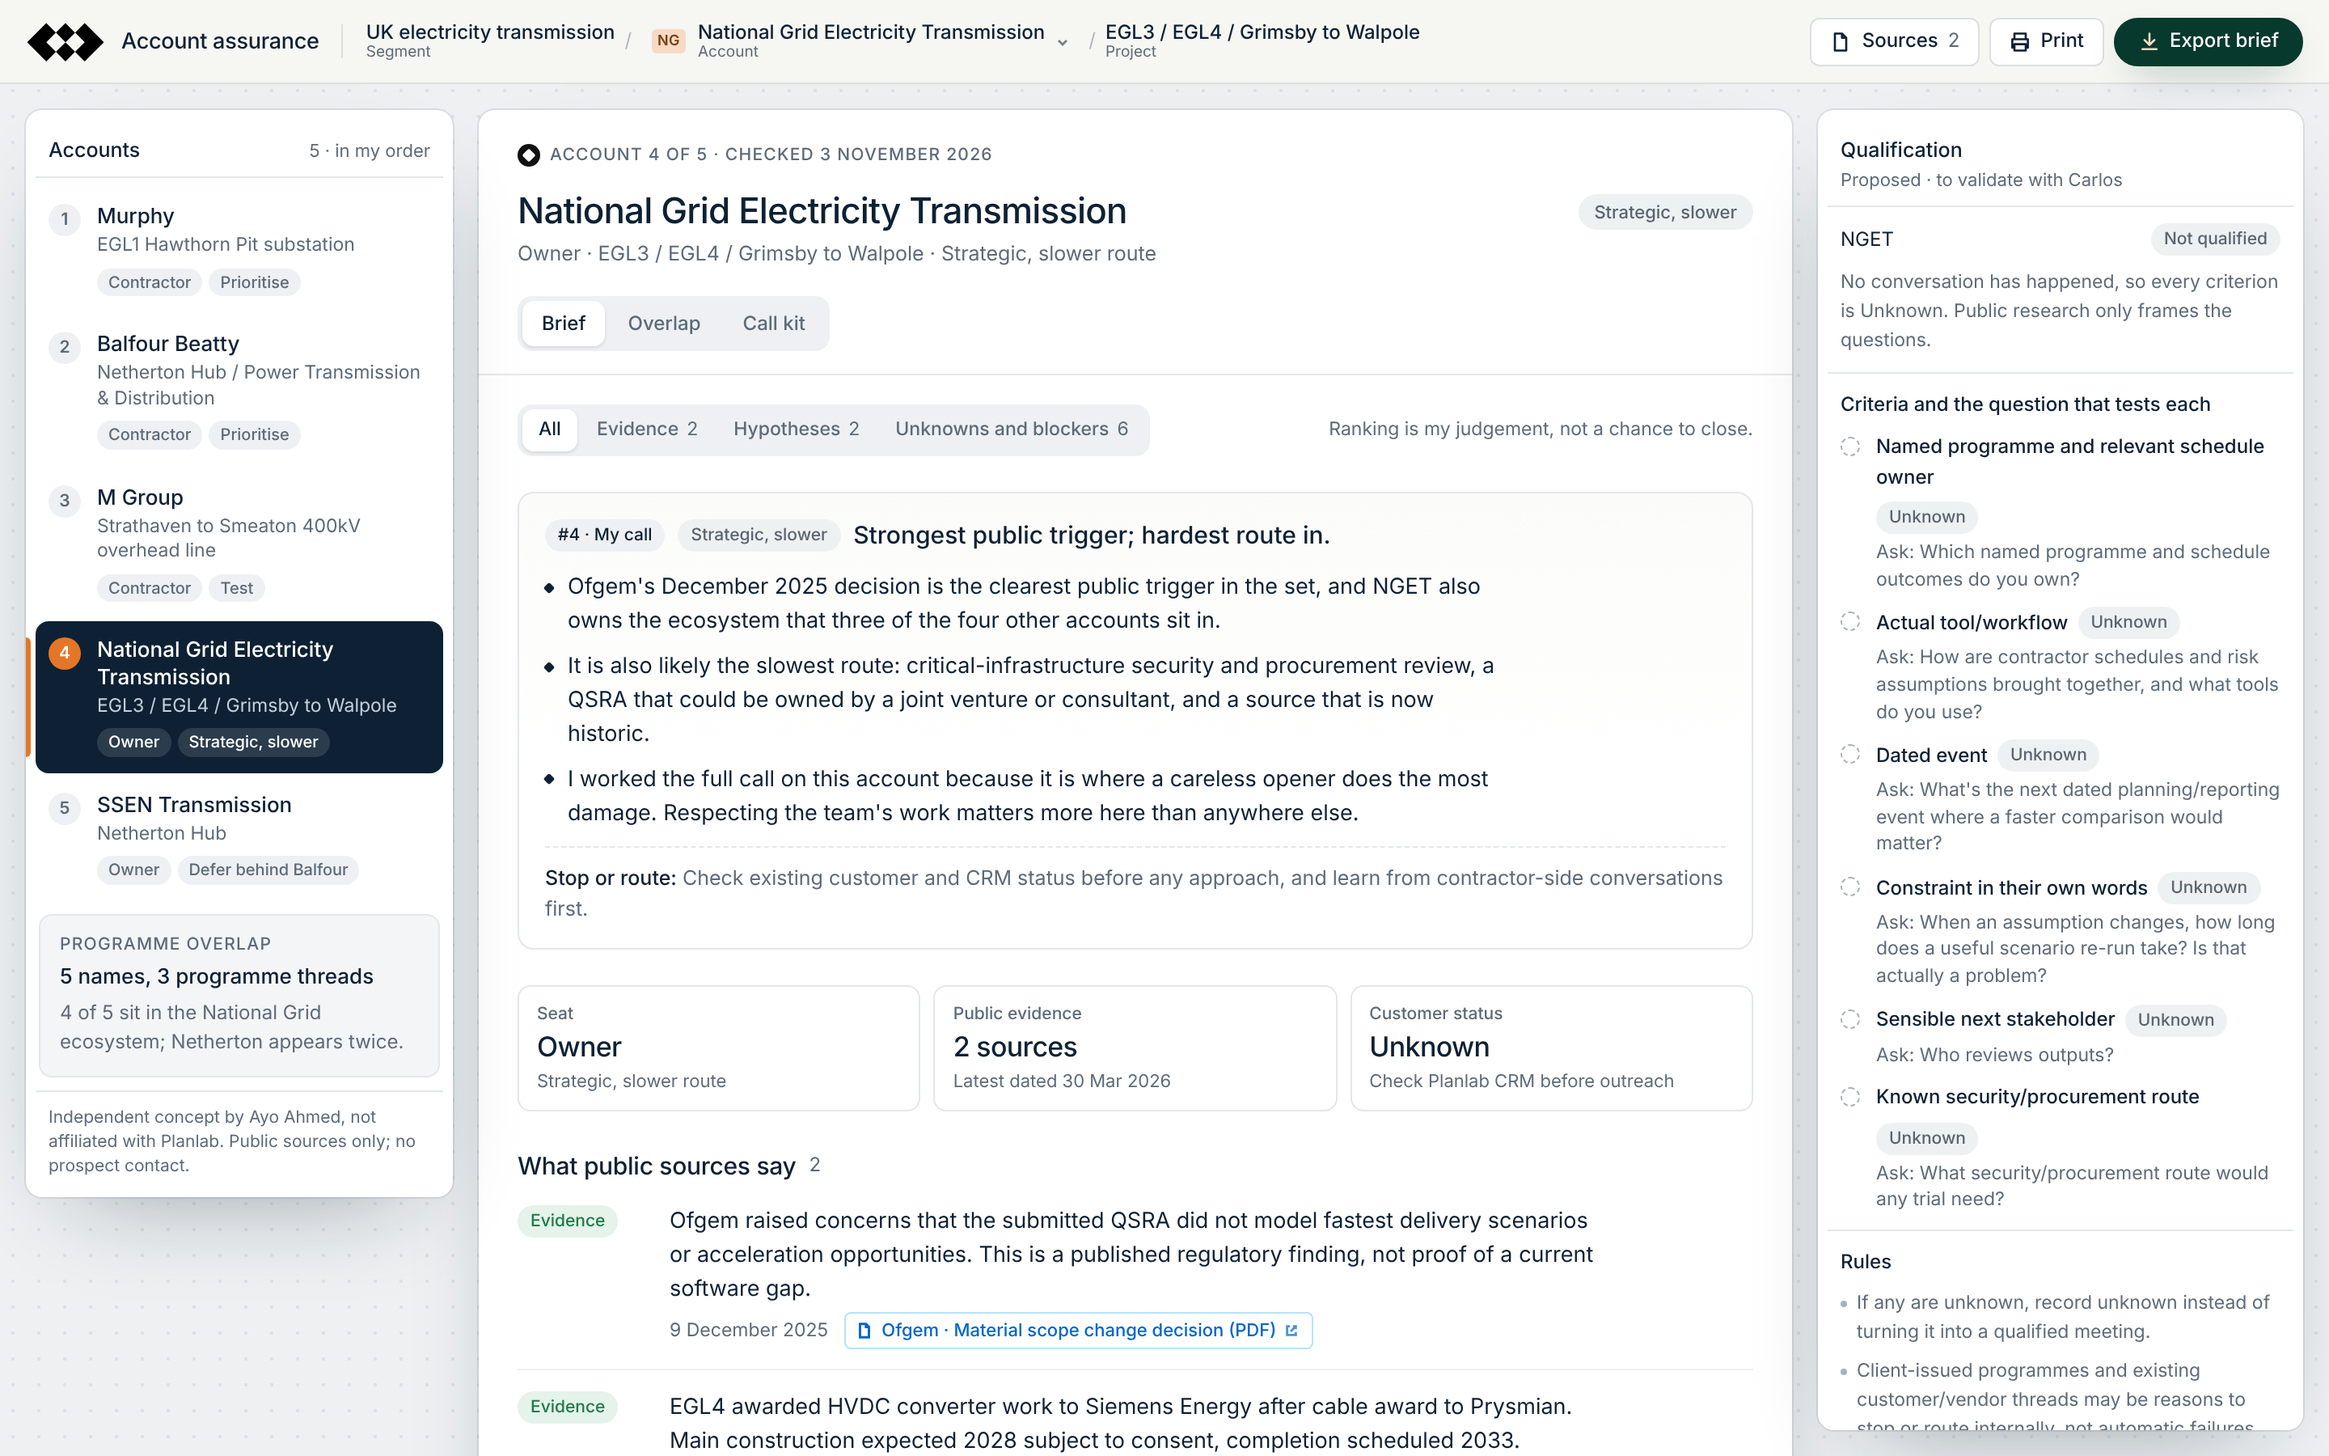
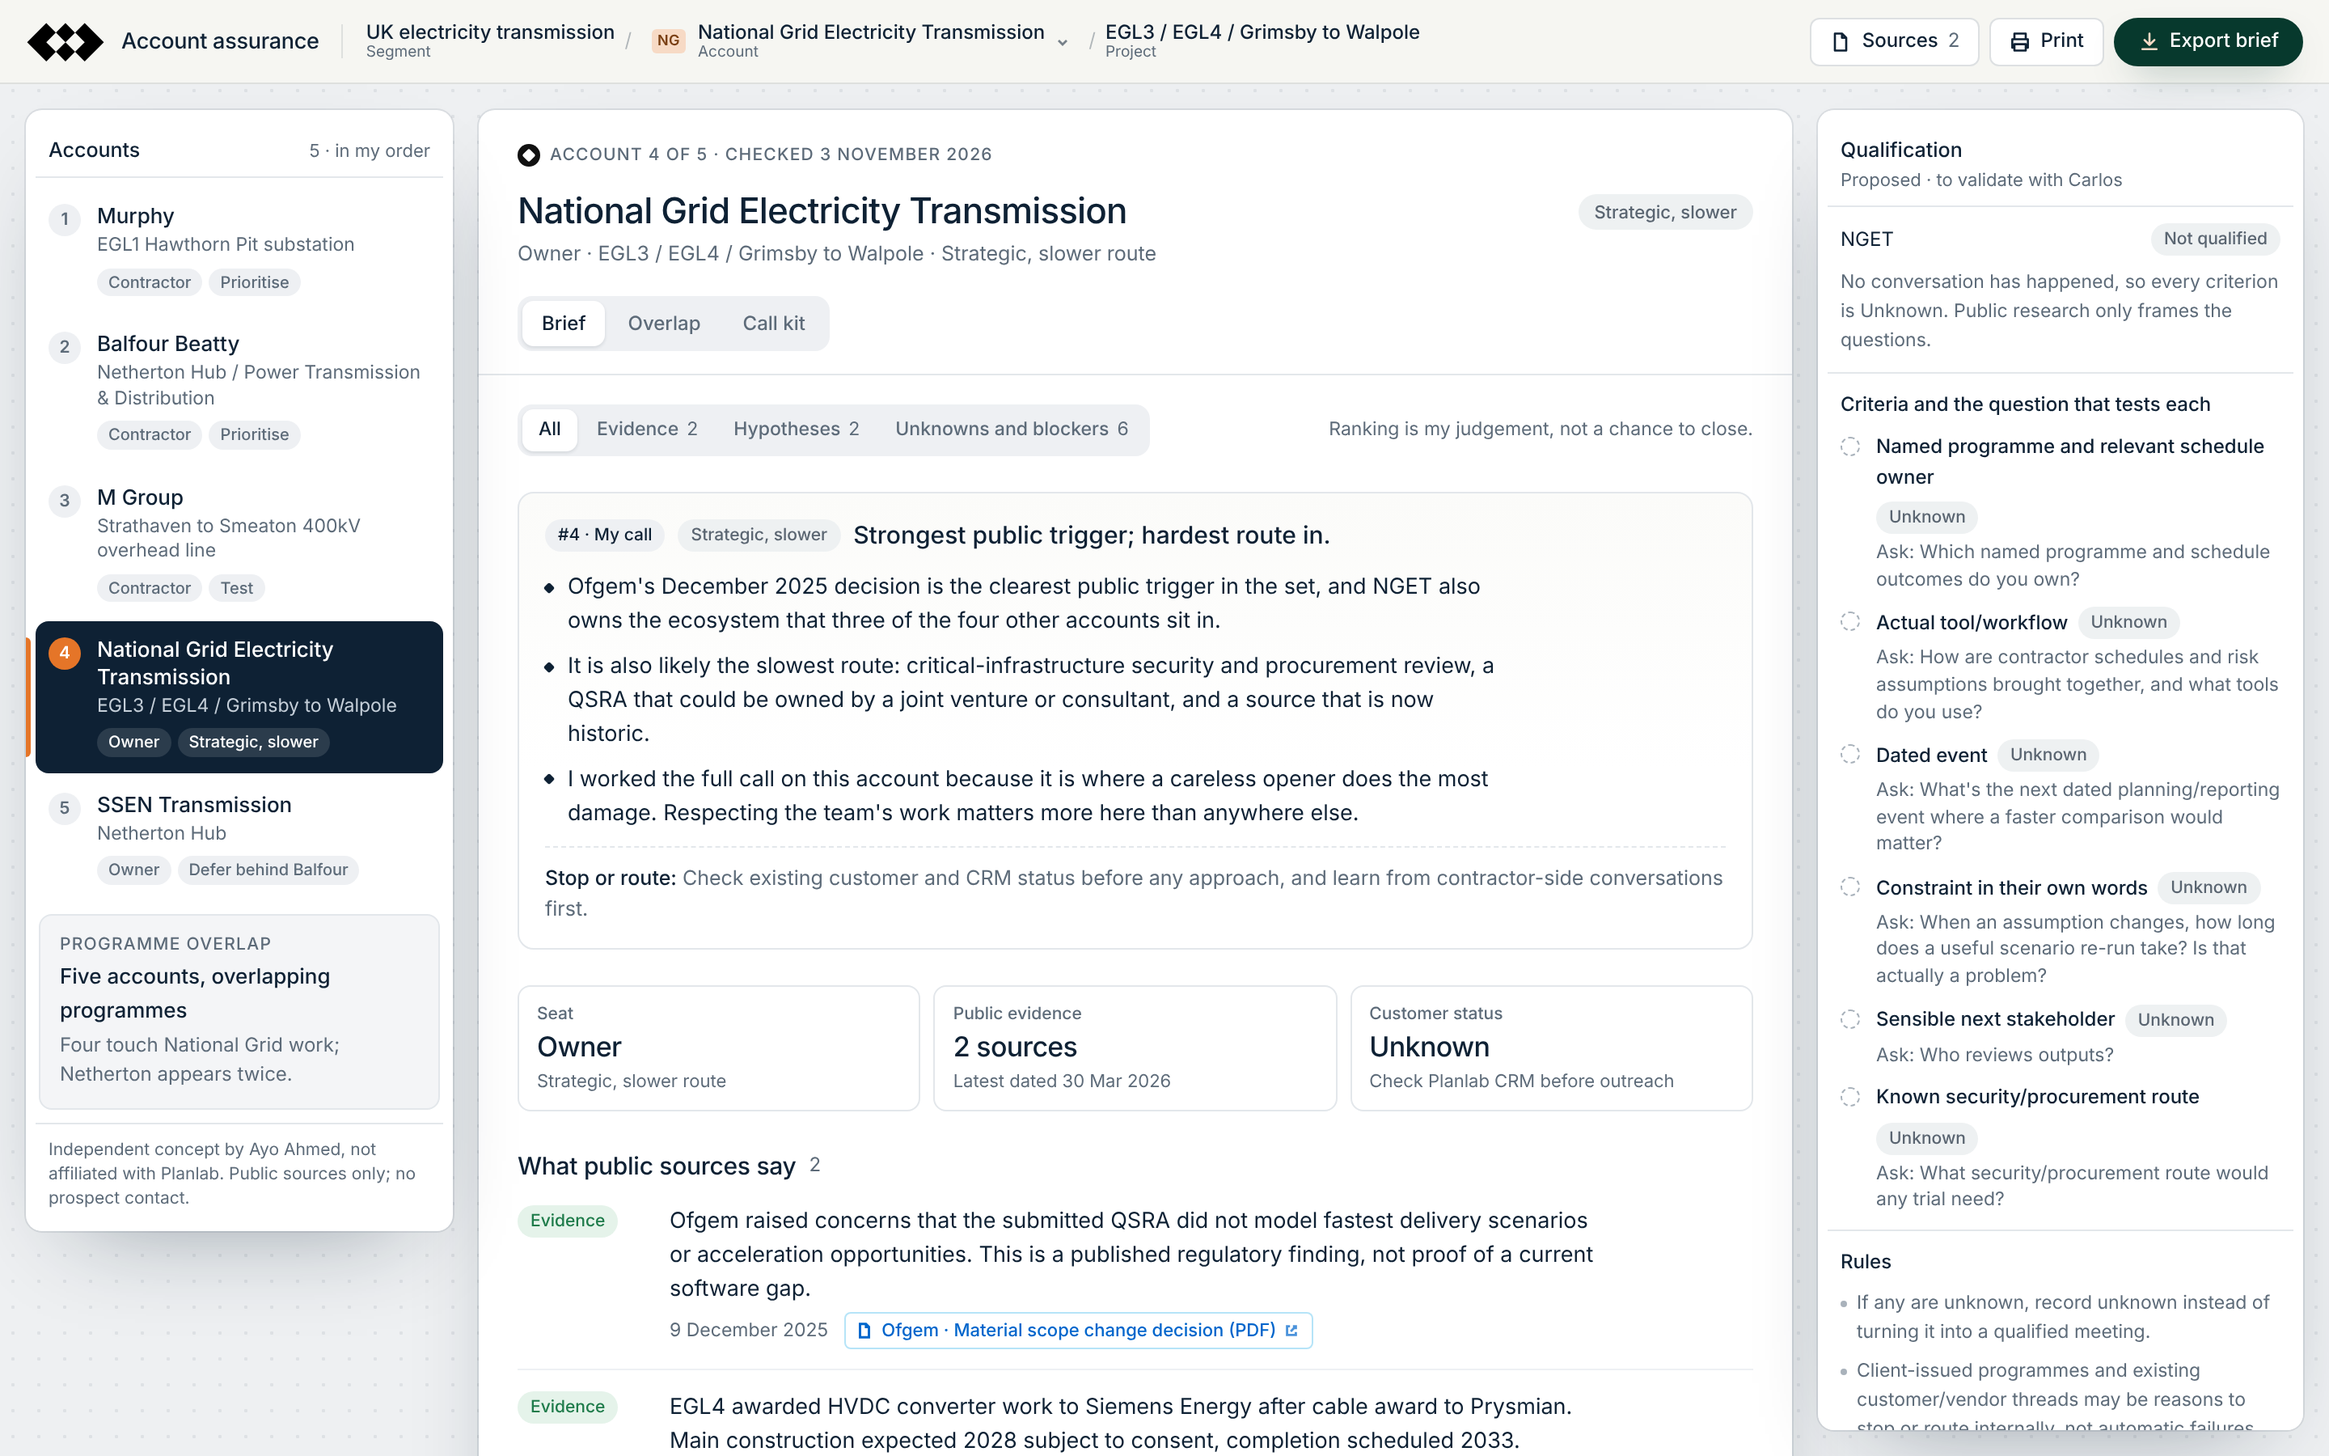
QA corrections: concentration wording, undated update, judgement labels, reproducible tests
- Overlap headline and rail card now read "Five accounts, overlapping
  programmes"; National Grid work is described as an owner grouping, with
  no count of independent opportunities (UI and viability memo)
- Murphy summary: public change of phase from an undated update, checked
  3 November 2026
- Contractor-first reachability marked as untested judgement in the UI
  (with a label), memo and decisions log
- Attribution scan tests general attribution patterns instead of names
- Playwright 1.63.0 pinned as the only dev dependency with a lockfile;
  npm run test:browsers installs Chromium; README updated
- Test results updated with this run; screenshots regenerated

Changed region(s): [[0.0, 0.6533, 0.2188, 0.8711]]

diff --git a/site/data/judgement.js b/site/data/judgement.js
@@ -8,10 +8,10 @@ export const ACTIONS = {
   murphy: {
     action: 'Prioritise',
     tone: 'evidence',
-    summary: 'One named package with a dated, public change of phase.',
+    summary: 'One named package with a public change of phase (undated update, checked 3 November 2026).',
     why: [
       'Murphy holds a single, named package (the 400kV substation at Hawthorn Pit on EGL1), and the public project update gives a current phase: piling complete, foundations progressing before buildings and electrical installation.',
-      'A contractor planning team on one package is a smaller, more reachable first conversation than owner-level procurement.',
+      'My judgement, untested: a contractor planning team on one package may be a smaller, more reachable first conversation than owner-level procurement.',
       'What learning here gives me: whether contractor planners own their package programme or work to one issued by NGET or the joint venture.',
     ],
     defer: 'Stop or route if NGET or the joint venture owns the integrated schedule and tools.',
@@ -83,15 +83,15 @@ export const LINKS = [
 ];
 
 export const CONCENTRATION = {
-  headline: 'Five account names, three programme threads.',
+  headline: 'Five accounts, overlapping programmes.',
   points: [
-    'Four of the five accounts sit inside the National Grid ecosystem: NGET as owner, and Murphy, Balfour Beatty and M Group as framework partners (M Group\'s place to be verified).',
+    'Four of the five accounts touch National Grid work: NGET as owner, and Murphy, Balfour Beatty and M Group through its frameworks (M Group\'s place to be verified). That is a grouping by owner, not one programme.',
     'Netherton Hub appears twice: SSEN Transmission as owner and Balfour Beatty as main works contractor.',
     'Only Strathaven to Smeaton sits outside both. Its owner, SP Energy Networks, is not one of the five accounts.',
   ],
   contractorFirst: [
     'Owner procurement on critical national infrastructure may be slow and security-heavy (both are flagged as blockers), and buyer roles are unverified.',
-    'A contractor planning team on one named package can say quickly whether it owns its programme, what it uses and what a dated event looks like. That is a small, cheap test of the angle.',
+    'My hypothesis, not verified: a contractor planning team on one named package may be able to say quickly whether it owns its programme, what it uses and what a dated event looks like. If so, that is a small, cheap test of the angle.',
     'If contractors work to client-issued programmes, I learn that early and route the owner conversation better, rather than spending the owner\'s attention on an untested pitch.',
   ],
 };

diff --git a/site/app.js b/site/app.js
@@ -264,7 +264,7 @@ function renderOverlap(a) {
       <p class="legend"><span><span class="role owner">Owner</span> programme owner</span><span><span class="role contractor">Contractor</span> named in a dated source</span><span><span class="role partner-verify">Partner · verify</span> from my overlap notes, to verify</span></p>
     </section>
     <section class="block" aria-labelledby="cf-title">
-      <h2 id="cf-title">Why I'd test contractor-side first</h2>
+      <h2 id="cf-title">Why I'd test contractor-side first <span class="pill hypothesis">Judgement, not verified</span></h2>
       <ul class="points">${CONCENTRATION.contractorFirst.map((p) => `<li>${esc(p)}</li>`).join('')}</ul>
     </section>
     <section class="block" aria-labelledby="or-title">

diff --git a/site/index.html b/site/index.html
@@ -60,8 +60,8 @@
     <ol class="account-list" id="account-list" aria-label="Accounts, in my order of priority"></ol>
     <button type="button" class="overlap-card" id="overlap-card">
       <span class="eyebrow">Programme overlap</span>
-      <strong>5 names, 3 programme threads</strong>
-      <span class="muted">4 of 5 sit in the National Grid ecosystem; Netherton appears twice.</span>
+      <strong>Five accounts, overlapping programmes</strong>
+      <span class="muted">Four touch National Grid work; Netherton appears twice.</span>
     </button>
     <p class="label-unofficial">Independent concept by Ayo Ahmed, not affiliated with Planlab. Public sources only; no prospect contact.</p>
   </aside>

diff --git a/docs/TEST-RESULTS.md b/docs/TEST-RESULTS.md
@@ -1,12 +1,14 @@
 # Test results
 
-Run on 3 November 2026 with Node v22.23.4 and Playwright 1.63.0 (headless Chromium), against the built `dist/`.
+Run on 3 November 2026 with Node v22.23.4 and Playwright 1.63.0 (headless Chromium), against the built `dist/`. Playwright is pinned as the only dev dependency, so a fresh clone reproduces this with:
 
 ```bash
-npm test
+npm ci && npm run test:browsers && npm test
 ```
 
-## Result: 25 passed, 0 failed (11.0s)
+## Result: 25 passed, 0 failed (19.5s)
+
+This is the run after the QA corrections listed below. An independent run of `npm test` on a separate machine also passed 25 of 25 before those corrections.
 
 ```
 ok 1 - checked date and customer status match the research
@@ -49,6 +51,16 @@ ok 25 - no horizontal page overflow at 1440px for every account and view
 - **Print and export.** Print is triggered; the print layout hides the chrome and prints full URLs; a PDF renders. Markdown exports contain every source URL and the unofficial label.
 - **Layouts.** There is no horizontal page overflow at 320, 390, 768, 1024 and 1440px for all 15 account and view combinations. The drawer and menu fit at 320 and 390px, and the top-bar buttons keep accessible names when their labels are hidden.
 
+## QA corrections after independent review
+
+| Finding | Change |
+|---|---|
+| The headline "Five account names, three programme threads" contradicted the five programme rows; National Grid work is an owner grouping, not one programme | Now "Five accounts, overlapping programmes" in the Overlap view, the rail card and the viability memo, with no count of independent opportunities |
+| The Murphy summary called the change of phase "dated", but the EGL1 update is undated | Now "a public change of phase (undated update, checked 3 November 2026)" |
+| Contractor-first reachability read as fact | Marked as my untested judgement in the Murphy reasoning, the Overlap view (with a "Judgement, not verified" label), the memo and the decisions log |
+| The attribution scan named specific tools in a public test file | Now tests general attribution patterns (co-author trailers, tool credit lines, claims of AI authorship, session or model identifiers). I checked that it catches six attribution samples and flags none of four ordinary sentences. |
+| `npm ci` failed: no lockfile and no Playwright dependency | Playwright 1.63.0 is pinned as an exact dev dependency with `package-lock.json`, and `npm run test:browsers` installs Chromium. The site still has no runtime dependencies. |
+
 ## Bugs the tests caught and I fixed
 
 | Bug | Cause | Fix |
@@ -63,7 +75,7 @@ ok 25 - no horizontal page overflow at 1440px for every account and view
 axe-core 4.10.2 checked 30 page states (5 accounts × 3 views × 1440 and 390px) against WCAG 2.0 A/AA, 2.1 AA and best practice.
 
 - **First run:** one moderate issue: the programme-table scroll region and its section shared one label, creating duplicate landmarks.
-- **After the fix:** no violations across 30 page states.
+- **After the fix:** no violations across 30 page states. I re-ran the audit after the QA corrections, with the same result.
 
 axe-core was used as a one-off check and is not a project dependency.
 

diff --git a/docs/VIABILITY.md b/docs/VIABILITY.md
@@ -10,8 +10,8 @@ The Founding SDR role (https://www.planlab.ai/jobs/founding-sales-development-re
 
 - **Research.** Five accounts and eight dated public sources, each linked from the claim it supports and checked on 3 November 2026, plus three Planlab product pages cited in the call kit. Where a newer update replaces an older one, the newer one wins. On EGL1, piling is complete, so I don't pitch the older July delay.
 - **Programme ownership.** I name the likely role and say plainly that it is unverified. Named executives are labelled as sponsors, not purchasing owners.
-- **Concentration.** Five names reduce to three programme threads. Four accounts sit in the National Grid ecosystem, and Netherton appears twice. Treating them as five independent opportunities would overstate the pipeline.
-- **Judgement.** My order puts two contractor-side tests first, because a planning team on one named package can quickly say whether it owns its programme, what it uses and what a dated event looks like. That is cheaper to learn than an enterprise owner procurement route, and it informs the owner conversation later.
+- **Concentration.** The five accounts overlap. Four touch National Grid work (an owner grouping, not one programme), and Netherton appears twice. Treating them as five independent opportunities would overstate the pipeline.
+- **Judgement.** My order puts two contractor-side tests first. My hypothesis, not verified, is that a planning team on one named package may be able to say quickly whether it owns its programme, what it uses and what a dated event looks like. If so, that is cheaper to learn than an enterprise owner procurement route, and it informs the owner conversation later.
 - **Call craft.** The NGET kit opens on a public regulatory finding without treating it as proof of a software gap. It asks who owns the work before pitching, and it handles four objections without promising security approval.
 - **Qualification discipline.** All six criteria stay Unknown until a real conversation. Client-issued programmes and existing customer or vendor threads are reasons to stop or route internally, not failures.
 

diff --git a/docs/DECISIONS.md b/docs/DECISIONS.md
@@ -7,7 +7,7 @@ Each decision is mine, with the reason and what I gave up.
 | 1 | **One segment, five accounts.** | Depth beats breadth for a candidate exercise. Five is enough to show concentration without becoming a list. | Less coverage of other UK infrastructure. |
 | 2 | **Two owners and three contractors, overlap shown.** | Real programmes are shared. Showing that NGET, Murphy and M Group share frameworks, and SSEN and Balfour Beatty share Netherton, stops me counting one programme twice. | The "five accounts" headline is deliberately smaller than it sounds. |
 | 3 | **The ranking is my judgement, not a score.** | A computed chance-to-close would invent precision I don't have. Each call ("Prioritise", "Test", "Strategic, slower", "Defer behind Balfour") comes with its reasons and stop/route conditions. | Readers must read the reasons rather than sort by a number. |
-| 4 | **Contractor-side tests first.** | Owner procurement on critical infrastructure may be slow and security-heavy. A contractor planning team on one named package is a smaller, faster test of the angle, and tells me how to approach the owner. | The strongest public trigger (NGET) comes fourth. |
+| 4 | **Contractor-side tests first.** | Owner procurement on critical infrastructure may be slow and security-heavy. My judgement, not verified: a contractor planning team on one named package may be a smaller, faster test of the angle, and may tell me how to approach the owner. | The strongest public trigger (NGET) comes fourth. |
 | 5 | **Work the call on NGET anyway.** | It has the clearest public trigger, and it is where a careless opener does the most damage, so it is the best test of tone. | The worked example is not my first-priority account. |
 | 6 | **Four labels: Evidence, Hypothesis, Unknown, Blocker.** | Keeps what sources say apart from what I infer and what I don't know. Every pill carries a word, so meaning never relies on colour. | Wordier pages. |
 | 7 | **Sponsors are labelled as sponsors.** | A managing director quoted in a press release is not a verified buyer. | No named "decision maker" anywhere. |

diff --git a/README.md b/README.md
@@ -30,19 +30,29 @@
 
 ## Run it
 
-You need Node 20 or later. There are no runtime dependencies.
+You need Node 20 or later. The site has no runtime dependencies; the only dev dependency is Playwright 1.63.0, pinned exactly in `package-lock.json`, for the browser tests.
 
 ```bash
 npm run preview
 ```
 
-That builds `dist/` and serves it at http://127.0.0.1:4173/. Deep links work, for example `#/nget/call` or `#/ssen/brief?filter=unknown`.
+That builds `dist/` and serves it at http://127.0.0.1:4173/. Deep links work, for example `#/nget/call` or `#/ssen/brief?filter=unknown`. Preview needs no install.
+
+To run the tests from a fresh clone:
+
+```bash
+npm ci
+```
+
+```bash
+npm run test:browsers
+```
 
 ```bash
 npm test
 ```
 
-That runs 8 data-integrity tests and 17 browser tests in headless Chromium (needs Playwright with Chromium: `npx playwright install chromium`). Results are in [docs/TEST-RESULTS.md](docs/TEST-RESULTS.md).
+`npm ci` installs the pinned Playwright, `npm run test:browsers` downloads its Chromium build once, and `npm test` runs 8 data-integrity tests and 17 browser tests in headless Chromium. Results are in [docs/TEST-RESULTS.md](docs/TEST-RESULTS.md).
 
 ```bash
 npm run check:links
